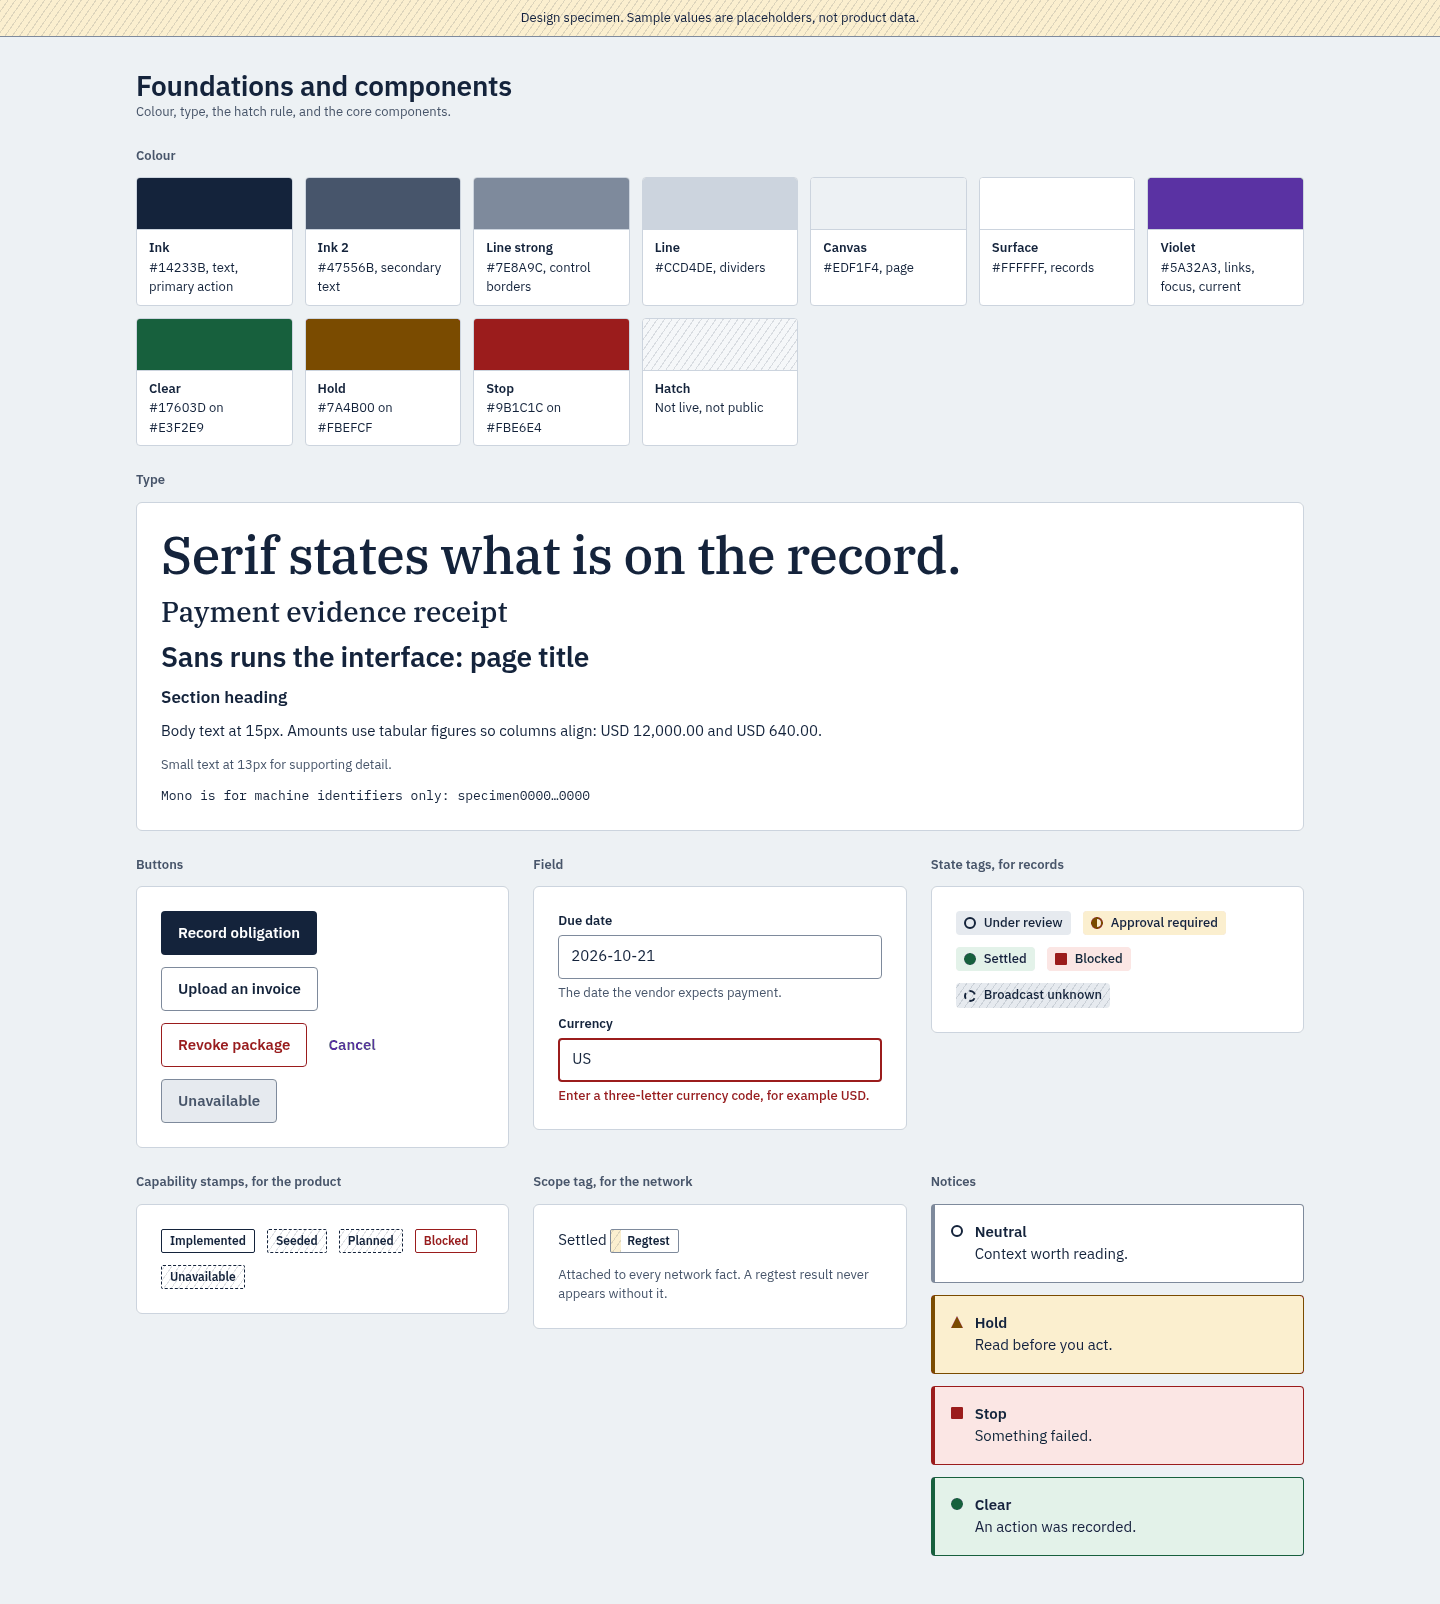
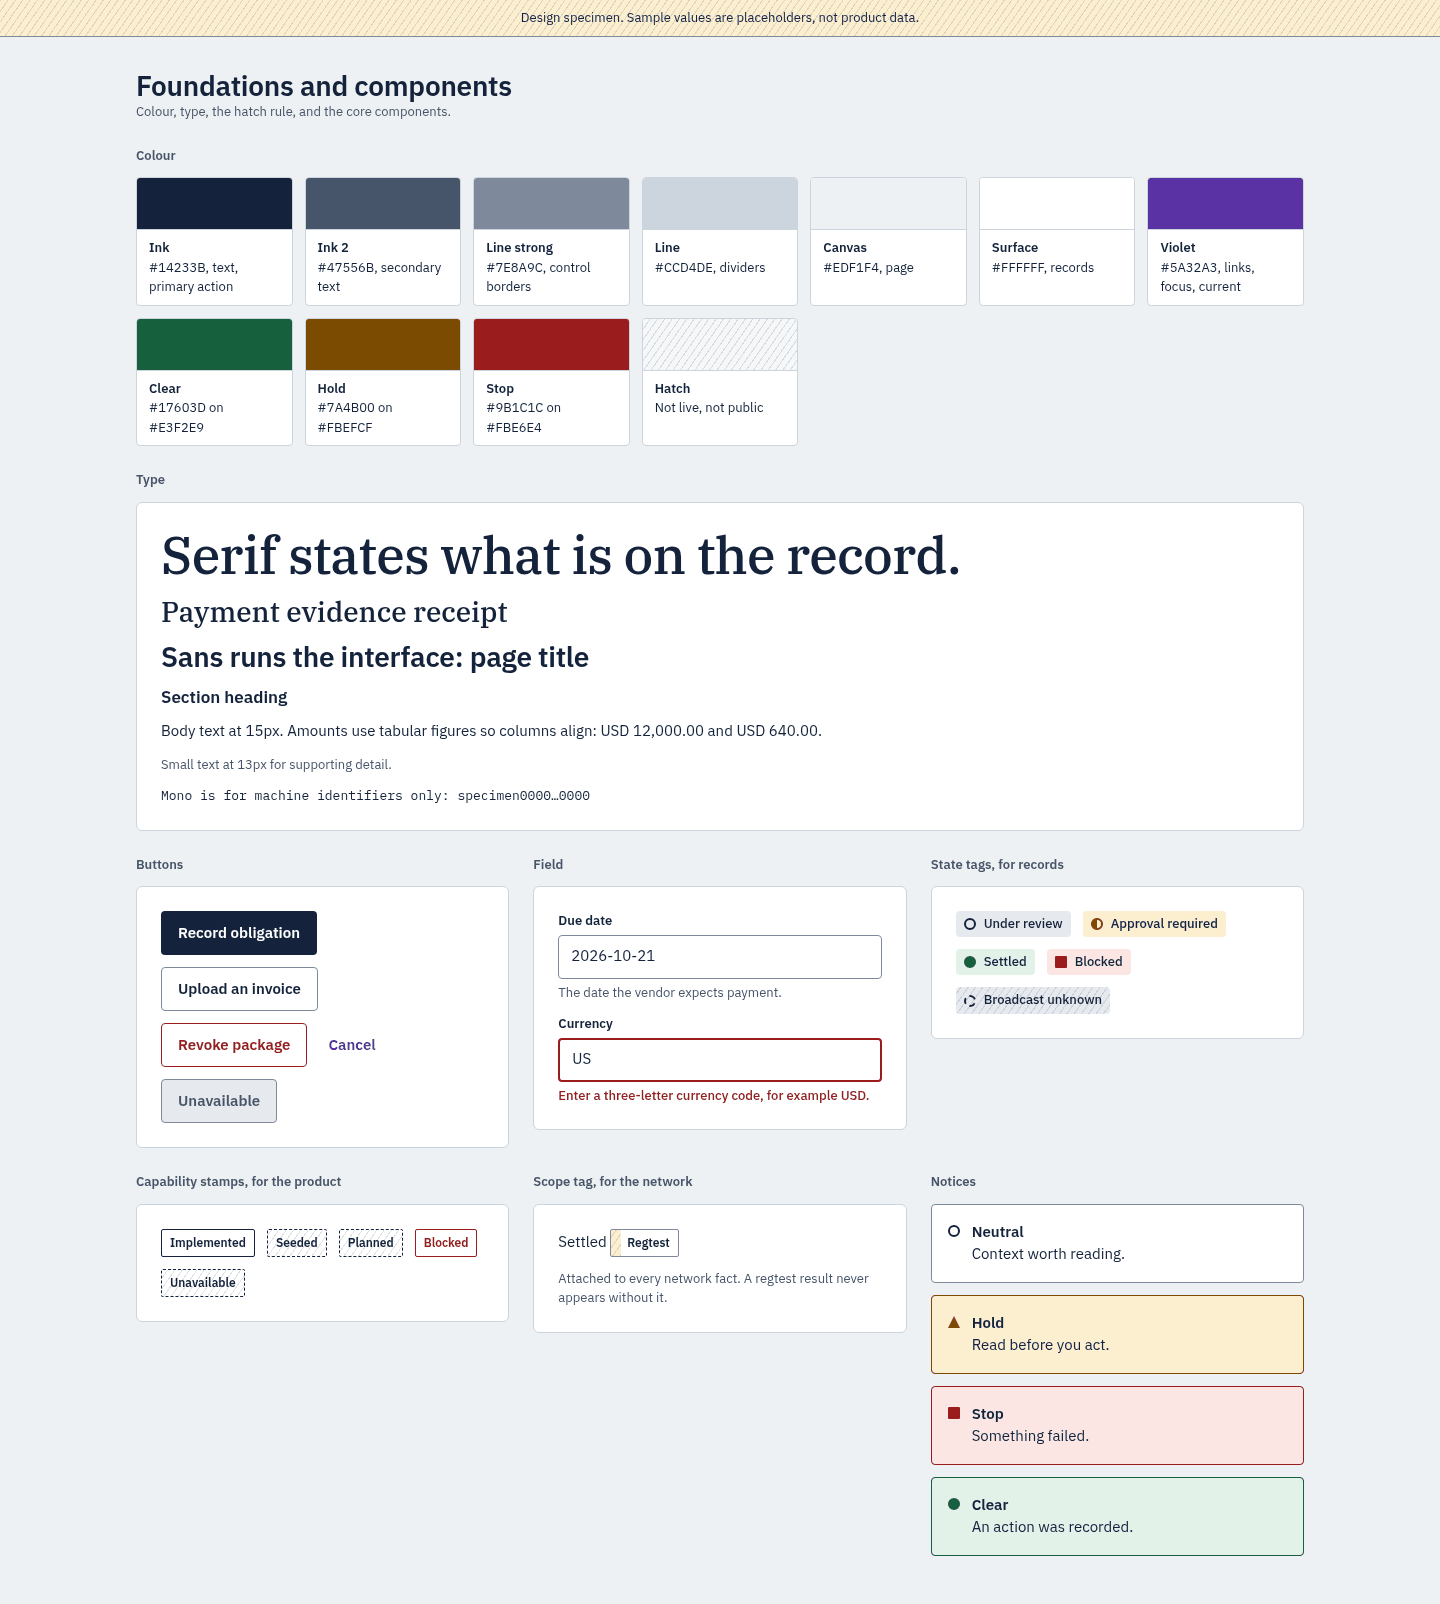
docs(design): drop side-accent borders and loosen tag padding
Notices now use a uniform tone border, the mobile track and menu no longer
rely on a coloured side rule, and stamps and tags get 4px vertical padding.
Screenshots regenerated.

Refs #1

diff --git a/docs/design/proposals/obliq.css b/docs/design/proposals/obliq.css
@@ -333,7 +333,7 @@ textarea.input {
   display: inline-flex;
   align-items: center;
   gap: var(--s2);
-  padding: 0.1875rem var(--s2);
+  padding: var(--s1) var(--s2);
   border-radius: var(--radius-control);
   background: var(--neutral-bg);
   color: var(--ink);
@@ -369,7 +369,7 @@ textarea.input {
   display: inline-flex;
   align-items: center;
   gap: var(--s2);
-  padding: 0.125rem var(--s2);
+  padding: var(--s1) var(--s2);
   border: 1px solid var(--ink);
   border-radius: 2px;
   background: var(--surface);
@@ -390,7 +390,7 @@ textarea.input {
 .scope {
   display: inline-flex;
   align-items: center;
-  padding: 0.125rem var(--s2) 0.125rem var(--s4);
+  padding: var(--s1) var(--s2) var(--s1) var(--s4);
   border: 1px solid var(--line-strong);
   border-radius: 2px;
   background:
@@ -410,7 +410,6 @@ textarea.input {
   gap: var(--s2) var(--s3);
   padding: var(--s4);
   border: 1px solid var(--line-strong);
-  border-left-width: 4px;
   border-radius: var(--radius-control);
   background: var(--surface);
 }
@@ -671,17 +670,10 @@ textarea.input {
     gap: var(--s3);
     padding: var(--s2) var(--s4);
     border-top: 0;
-    border-left: 3px solid var(--line);
   }
   .step small {
     margin-left: auto;
     text-align: right;
-  }
-  .step-done {
-    border-left-color: var(--clear);
-  }
-  .step-now {
-    border-left-color: var(--ink);
   }
 }
 
@@ -869,7 +861,7 @@ textarea.input {
   }
   .mnav a[aria-current="page"] {
     font-weight: 600;
-    border-left: 3px solid var(--violet);
+    background: var(--violet-tint);
   }
   .page {
     padding: var(--s5) var(--s4) var(--s7);

diff --git a/docs/design/design-system.md b/docs/design/design-system.md
@@ -313,7 +313,7 @@ tag. The interface never guesses a tone.
 | Button            | Primary (ink fill), secondary (white, strong border), quiet (violet text), danger (red border and text). One primary per panel. Labels say what happens: "Record signing receipt", not "Submit". 44px high. |
 | Field             | Visible label above every control. Optional hint below. Error text below in `--stop`, linked by `aria-describedby`, with a 2px red border on the control. Placeholders are never used as labels.            |
 | Amount field      | Currency and amount side by side under one group label. Where a unit conversion matters (zatoshis), the converted value and the business amount are shown beside the input before submission.               |
-| Notice            | Left-ruled panel with a glyph, a bold one-line statement and supporting text. Tones: neutral, hold, stop, clear, and hatched for test or planned scope.                                                     |
+| Notice            | Bordered panel with a glyph, a bold one-line statement and supporting text. Tones: neutral, hold, stop, clear, and hatched for test or planned scope.                                                       |
 | Ledger table      | Sunken header row, 1px row dividers, amounts right-aligned in tabular figures, state tag in its own column, primary cell is the link. Stacks below 720px (section 5).                                       |
 | Facts list        | A definition list for record details. One column in the side panel; auto-filling columns in the main panel.                                                                                                 |
 | Identifier        | Mono text for a hash or ID. Truncated in the middle in running text, shown in full in a facts list, always paired with a "Copy" button where a user must carry it elsewhere.                                |
